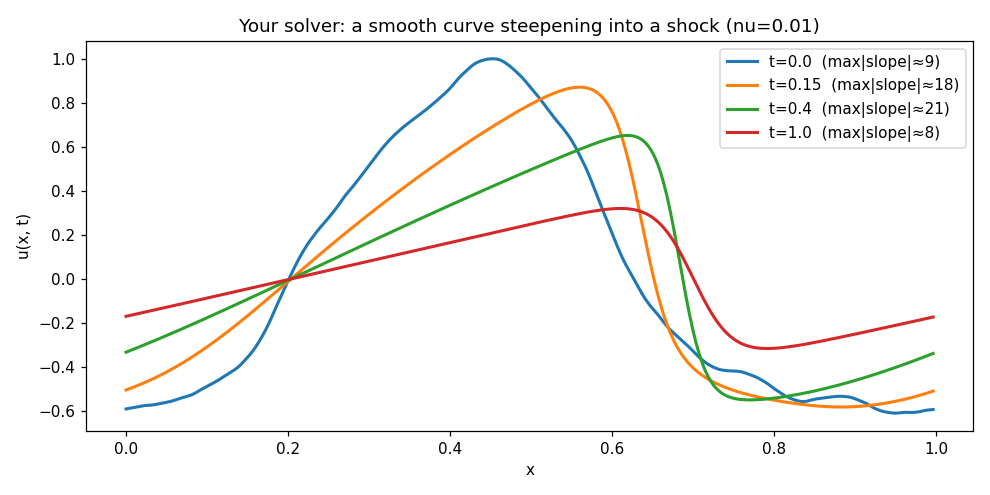
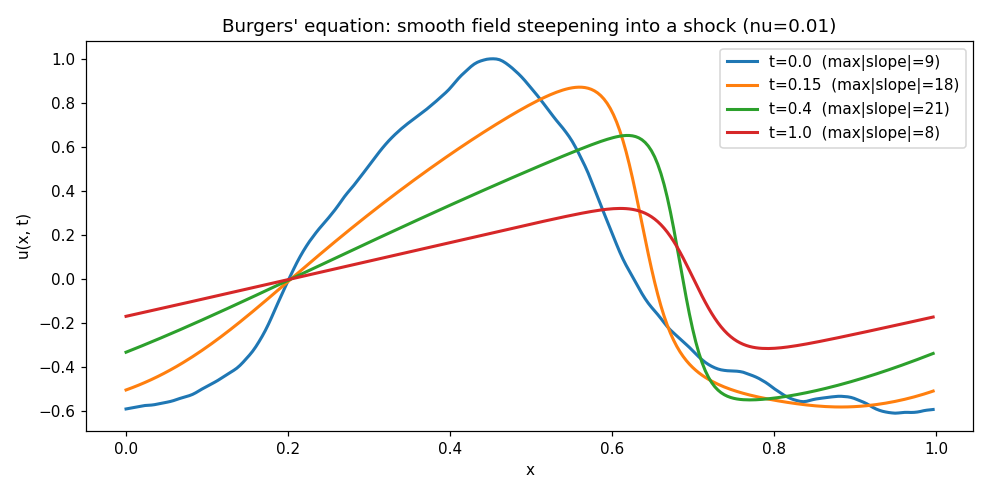
burgers' dataset generation

Changed region(s): [[0.2121, 0.0303, 0.8485, 0.0909]]

diff --git a/src/solvers/burgers.py b/src/solvers/burgers.py
@@ -121,3 +121,62 @@ def solve_burgers_if(u0, nu=0.01, t_final=1.0, dt=1e-3):
         u = np.fft.ifft(u_hat, axis=-1).real
     return u
 
+def downsample(u, target_grid):
+    """Spectrally downsample the last axis to target_grid points.
+
+    FFT -> keep the lowest wavenumbers the coarse grid supports -> inverse FFT.
+    Nearly lossless for smooth fields, whose energy lives in the low modes.
+    """
+    grid = u.shape[-1]
+    if target_grid == grid:
+        return u
+    if target_grid > grid:
+        raise ValueError("downsample only reduces resolution")
+
+    u_hat = np.fft.rfft(u, axis=-1)                          # real FFT: freqs 0..grid/2
+    keep  = target_grid // 2 + 1                             # modes the coarse grid holds
+    u_hat_small = u_hat[..., :keep] * (target_grid / grid)   # truncate high modes + rescale
+    return np.fft.irfft(u_hat_small, n=target_grid, axis=-1)
+
+def generate_dataset(n_train=1000, n_test=200, base_grid=256, nu=0.01,
+                     t_final=1.0, dt=1e-3, resolutions=(64, 128, 256), seed=0):
+    """Generate (u0 -> uT) pairs at base_grid, plus downsampled copies.
+
+    Returns a dict of arrays keyed by split and resolution, e.g.
+    'u0_train_64', 'uT_test_256' — ready to save with np.savez.
+    """
+    n = n_train + n_test
+
+    # 1. Sample all initial conditions at the base resolution.
+    u0 = gaussian_random_field(n, base_grid, seed=seed)
+
+    # 2. Solve every one forward to u(x, t_final), batched in one call.
+    uT = solve_burgers_if(u0, nu=nu, t_final=t_final, dt=dt)
+
+    # 3. For each resolution: downsample, then split train / test.
+    data = {}
+    for res in resolutions:
+        u0_r = downsample(u0, res)
+        uT_r = downsample(uT, res)
+        data[f"u0_train_{res}"] = u0_r[:n_train].astype(np.float32)
+        data[f"uT_train_{res}"] = uT_r[:n_train].astype(np.float32)
+        data[f"u0_test_{res}"]  = u0_r[n_train:].astype(np.float32)
+        data[f"uT_test_{res}"]  = uT_r[n_train:].astype(np.float32)
+    return data
+
+
+
+
+
+def main():
+    import os
+    os.makedirs("data", exist_ok=True)
+    data = generate_dataset()
+    np.savez_compressed("data/burgers.npz", **data)
+    print(f"Saved data/burgers.npz with {len(data)} arrays:")
+    for key, arr in data.items():
+        print(f"  {key:16s} {arr.shape}")
+
+
+if __name__ == "__main__":
+    main()

diff --git a/THEORY.md b/THEORY.md
@@ -279,3 +279,24 @@ met.
    signature of a first-order scheme (a straight line of slope $\approx 1$ on a
    log-log plot). Erratic or stalled error would instead hint at a bug, so this
    clean trend is also a sanity check on the implementation.
+
+---
+
+## 7. Downsampling — the same solution at several resolutions
+
+**Why we need it.** The FNO's headline property is that it is
+*resolution-invariant*: one trained model can run on any grid size. The
+resolution-transfer experiment tests this by training at a coarse grid (e.g. 64)
+and evaluating at finer ones (128, 256, 1024). To make that comparison fair, we
+need the **same** solutions represented at each resolution. So we generate the
+data once at a high base resolution, then downsample $u_0$ and $u_T$ to the
+coarser grids — the coarse versions are exact restrictions of the same fields,
+not separately generated ones.
+
+**How — spectral (Fourier) downsampling.** Naively keeping every $k$-th grid
+point can alias and distort. Instead: FFT the field, **keep only the lowest
+wavenumbers the coarse grid can represent** (up to its Nyquist limit), and
+inverse-FFT at the smaller size. Because a smooth field's energy lives in its low
+modes, dropping the high ones is nearly lossless — this is the natural way to
+represent a band-limited function on fewer points. A scale factor
+(target / source) corrects the FFT normalization so amplitudes are preserved.
